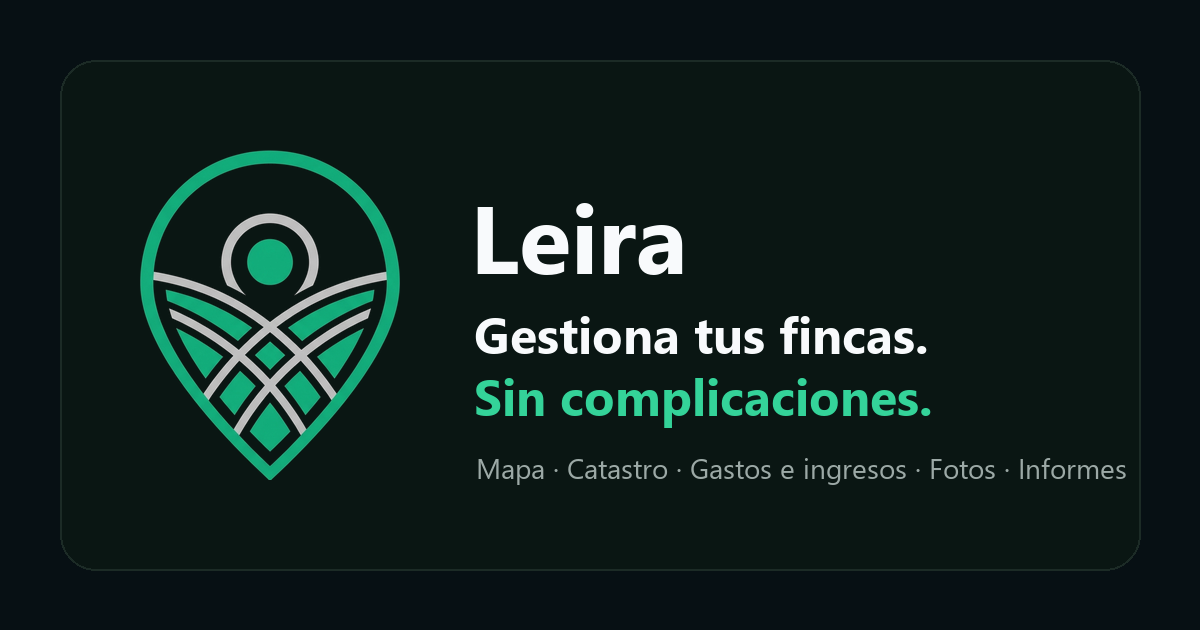
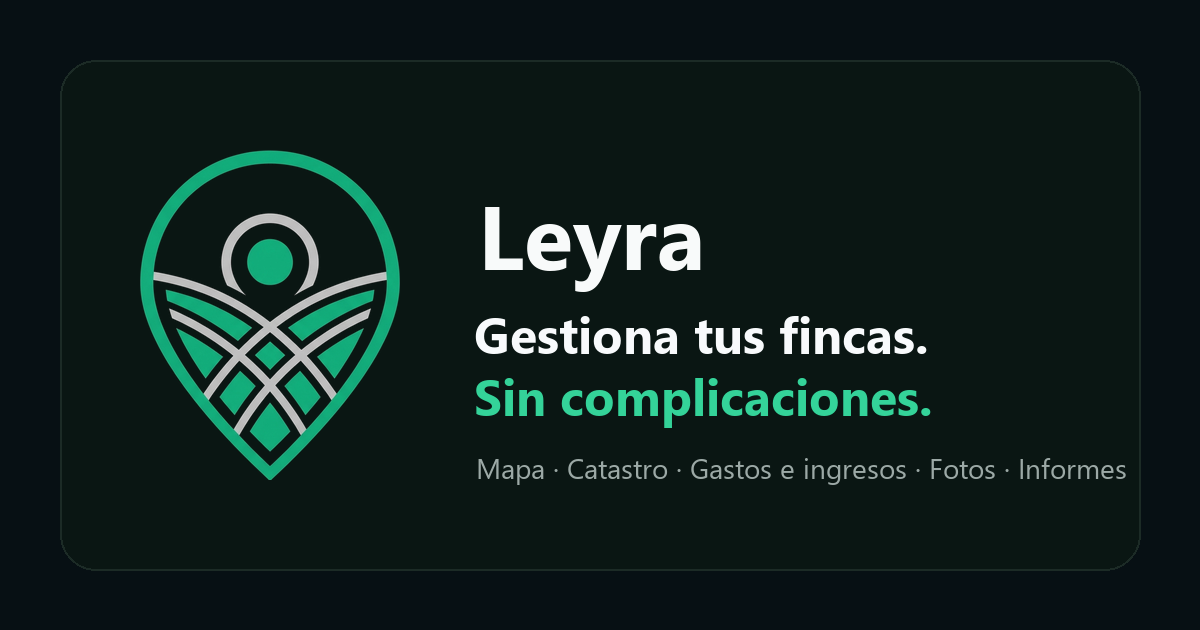
Rebranding: Leira pasa a llamarse Leyra

Changed region(s): [[0.37, 0.3016, 0.5858, 0.4825]]

diff --git a/index.html b/index.html
@@ -3,7 +3,7 @@
 <head>
   <meta charset="utf-8">
   <meta name="viewport" content="width=device-width, initial-scale=1, viewport-fit=cover">
-  <title>Leira — Gestiona tus fincas y propiedades</title>
+  <title>Leyra — Gestiona tus fincas y propiedades</title>
   <meta name="description" content="Gestiona tus fincas y propiedades, consulta el Catastro, controla gastos y organiza toda tu información desde una sola aplicación.">
   <meta name="theme-color" content="#071014">
   <meta name="color-scheme" content="dark">
@@ -14,13 +14,13 @@
   <meta property="og:url" content="https://asvdesarrolloweb-cmd.github.io/leira-web/">
   <meta property="og:type" content="website">
   <meta property="og:locale" content="es_ES">
-  <meta property="og:site_name" content="Leira">
-  <meta property="og:title" content="Leira — Gestiona tus fincas y propiedades">
+  <meta property="og:site_name" content="Leyra">
+  <meta property="og:title" content="Leyra — Gestiona tus fincas y propiedades">
   <meta property="og:description" content="Tus fincas. Todo bajo control. Catastro, ubicación, gastos, fotos y documentación en una sola aplicación.">
   <meta property="og:image" content="https://asvdesarrolloweb-cmd.github.io/leira-web/assets/og-image.png">
   <meta property="og:image:width" content="1200">
   <meta property="og:image:height" content="630">
-  <meta property="og:image:alt" content="Logo de Leira con el lema «Gestiona tus fincas. Sin complicaciones.»">
+  <meta property="og:image:alt" content="Logo de Leyra con el lema «Gestiona tus fincas. Sin complicaciones.»">
   <meta name="twitter:card" content="summary_large_image">
 
   <link rel="icon" type="image/png" sizes="32x32" href="assets/favicon-32.png">
@@ -41,9 +41,9 @@
   <!-- ====================================================== NAVEGACIÓN -->
   <header class="nav" data-nav>
     <div class="nav-inner wrap">
-      <a class="brand" href="#top" aria-label="Leira, inicio">
+      <a class="brand" href="#top" aria-label="Leyra, inicio">
         <img src="assets/logo.png" srcset="assets/logo@2x.png 2x" width="25" height="32" alt="">
-        <span>Leira</span>
+        <span>Leyra</span>
       </a>
       <nav class="nav-links" id="nav-links" aria-label="Principal">
         <a href="#funcionalidades">Funcionalidades</a>
@@ -67,7 +67,7 @@
     <section class="hero" id="top">
       <div class="wrap hero-grid">
         <div class="hero-copy reveal">
-          <p class="eyebrow"><img src="assets/logo.png" width="14" height="18" alt=""> Leira para Android</p>
+          <p class="eyebrow"><img src="assets/logo.png" width="14" height="18" alt=""> Leyra para Android</p>
           <h1>Tus fincas.<br><span class="accent">Todo bajo control.</span></h1>
           <p class="lead">Catastro, mapa, gastos, fotos y documentos. Todo en una sola aplicación.</p>
           <div class="cta-row">
@@ -76,7 +76,7 @@
               <span data-play-label>Próximamente en Google Play</span>
             </a>
             <a class="btn btn-ghost btn-lg" href="#funcionalidades">
-              Descubrir Leira <span class="ms" aria-hidden="true">arrow_downward</span>
+              Descubrir Leyra <span class="ms" aria-hidden="true">arrow_downward</span>
             </a>
           </div>
           <ul class="hero-points" aria-label="Para quién">
@@ -86,7 +86,7 @@
           </ul>
         </div>
 
-        <div class="hero-visual reveal" role="img" aria-label="Pantalla Mapa de Leira: fincas guardadas en verde, parcelas del Catastro en naranja y la tarjeta de una parcela con el botón Añadir a mis fincas">
+        <div class="hero-visual reveal" role="img" aria-label="Pantalla Mapa de Leyra: fincas guardadas en verde, parcelas del Catastro en naranja y la tarjeta de una parcela con el botón Añadir a mis fincas">
           <div class="phone tilt">
             <div class="screen">
               <div class="app-bar"><span>Mapa</span><span class="app-avatar"><span class="ms" aria-hidden="true">grass</span></span></div>
@@ -113,13 +113,13 @@
     <section class="section section-tight" id="funcionalidades">
       <div class="wrap">
         <header class="section-head reveal">
-          <h2 class="claim">Una app de Catastro te enseña una parcela.<br><span class="accent">Leira te ayuda a gestionarla.</span></h2>
+          <h2 class="claim">Una app de Catastro te enseña una parcela.<br><span class="accent">Leyra te ayuda a gestionarla.</span></h2>
         </header>
         <ol class="flow reveal" aria-label="Cómo funciona">
           <li><span class="flow-ic ms" aria-hidden="true">travel_explore</span><span>Encuentra una parcela</span></li>
           <li><span class="flow-ic ms" aria-hidden="true">touch_app</span><span>Selecciónala</span></li>
           <li><span class="flow-ic ms" aria-hidden="true">add_location_alt</span><span>Añádela a tus fincas</span></li>
-          <li><span class="flow-ic ms" aria-hidden="true">account_balance_wallet</span><span>Gestiónala desde Leira</span></li>
+          <li><span class="flow-ic ms" aria-hidden="true">account_balance_wallet</span><span>Gestiónala desde Leyra</span></li>
         </ol>
         <p class="flow-sub reveal">Catastro + mapa + gastos + fotos + documentos, todo en un solo lugar.</p>
       </div>
@@ -149,12 +149,12 @@
           <h2>Encuentra una parcela.<br>Guárdala en segundos.</h2>
           <ol class="steps" data-steps>
             <li data-step="1"><span class="step-n">1</span><div><strong>Mapa</strong><p>Activa la capa Catastro: las parcelas aparecen en naranja.</p></div></li>
-            <li data-step="2"><span class="step-n">2</span><div><strong>Selecciona la parcela</strong><p>Tócala y Leira te enseña su superficie.</p></div></li>
+            <li data-step="2"><span class="step-n">2</span><div><strong>Selecciona la parcela</strong><p>Tócala y Leyra te enseña su superficie.</p></div></li>
             <li data-step="3"><span class="step-n">3</span><div><strong>«Añadir a mis fincas»</strong><p>Si tiene varios inmuebles, eliges cuál.</p></div></li>
             <li data-step="4"><span class="step-n"><span class="ms">check</span></span><div><strong>Finca guardada</strong><p>Ya aparece en verde, lista para gestionarla.</p></div></li>
           </ol>
           <p class="premium-note"><span class="ms crown" aria-hidden="true">workspace_premium</span>Disponible con Premium</p>
-          <p class="aside">¿Tienes la referencia catastral? Escríbela y Leira trae la dirección, el uso, la superficie y el contorno — gratis.</p>
+          <p class="aside">¿Tienes la referencia catastral? Escríbela y Leyra trae la dirección, el uso, la superficie y el contorno — gratis.</p>
         </div>
         <div class="feature-visual reveal" role="img" aria-label="Animación: sobre el mapa del IGN se activa la capa Catastro, se toca una parcela, se pulsa Añadir a mis fincas y la parcela queda guardada en verde">
           <div class="phone">
@@ -206,7 +206,7 @@
             <li><i class="lg blue"></i>Tu ubicación</li>
           </ul>
         </div>
-        <div class="feature-visual reveal" role="img" aria-label="Mapa de Leira con fincas en verde, capa Catastro en naranja y tu ubicación; se puede alternar entre mapa del IGN y satélite">
+        <div class="feature-visual reveal" role="img" aria-label="Mapa de Leyra con fincas en verde, capa Catastro en naranja y tu ubicación; se puede alternar entre mapa del IGN y satélite">
           <div class="map-card">
             <div class="map" data-map data-layer="sat" data-cad="on" data-layer-target>
               <div class="m-pill m-layers"><span data-pill="ign">Mapa</span><span class="on" data-pill="sat">Satélite</span></div>
@@ -386,9 +386,9 @@
     <section class="section premium" id="premium">
       <div class="wrap">
         <header class="section-head reveal">
-          <p class="badge-pro"><span class="ms" aria-hidden="true">workspace_premium</span>LEIRA PRO</p>
-          <h2>Descubre todo el potencial de Leira</h2>
-          <p class="lead">Leira es gratis para gestionar tus fincas. Premium suma lo que más tiempo te ahorra.</p>
+          <p class="badge-pro"><span class="ms" aria-hidden="true">workspace_premium</span>LEYRA PRO</p>
+          <h2>Descubre todo el potencial de Leyra</h2>
+          <p class="lead">Leyra es gratis para gestionar tus fincas. Premium suma lo que más tiempo te ahorra.</p>
         </header>
         <div class="pro-hero reveal">
           <div class="pro-hero-ic"><span class="ms" aria-hidden="true">map</span></div>
@@ -418,7 +418,7 @@
         </header>
         <div class="faq reveal">
           <details>
-            <summary>¿Qué es Leira?<span class="ms" aria-hidden="true">expand_more</span></summary>
+            <summary>¿Qué es Leyra?<span class="ms" aria-hidden="true">expand_more</span></summary>
             <p>Una app para gestionar tus fincas y propiedades a partir de su referencia catastral: las ves en el mapa, consultas sus datos del Catastro, apuntas gastos e ingresos, guardas fotos y puntos de interés y generas informes en PDF.</p>
           </details>
           <details>
@@ -431,7 +431,7 @@
           </details>
           <details>
             <summary>¿Puedo consultar el Catastro?<span class="ms" aria-hidden="true">expand_more</span></summary>
-            <p>Sí. Con la referencia catastral, Leira obtiene de los servicios oficiales de la Dirección General del Catastro la dirección, el municipio, el uso, la superficie y el contorno de la parcela. Con Premium, además, ves las parcelas en el mapa. Navarra y el País Vasco tienen catastros propios y no están incluidos.</p>
+            <p>Sí. Con la referencia catastral, Leyra obtiene de los servicios oficiales de la Dirección General del Catastro la dirección, el municipio, el uso, la superficie y el contorno de la parcela. Con Premium, además, ves las parcelas en el mapa. Navarra y el País Vasco tienen catastros propios y no están incluidos.</p>
           </details>
           <details>
             <summary>¿Puedo guardar parcelas en Mis fincas?<span class="ms" aria-hidden="true">expand_more</span></summary>
@@ -454,8 +454,8 @@
             <p>La capa Catastro en el mapa, el escáner de tickets con IA ilimitado, movimientos y fotos en la nube sin límite, mapas sin conexión y ninguna publicidad. Se gestiona desde Google Play y puedes cancelar cuando quieras.</p>
           </details>
           <details>
-            <summary>¿Dónde puedo descargar Leira?<span class="ms" aria-hidden="true">expand_more</span></summary>
-            <p>Leira llegará a Android a través de Google Play. En esta página tendrás el enlace en cuanto esté publicada.</p>
+            <summary>¿Dónde puedo descargar Leyra?<span class="ms" aria-hidden="true">expand_more</span></summary>
+            <p>Leyra llegará a Android a través de Google Play. En esta página tendrás el enlace en cuanto esté publicada.</p>
           </details>
         </div>
       </div>
@@ -470,7 +470,7 @@
           <p class="lead">Catastro, mapa, gastos, fotos y documentos. Todo en un solo lugar.</p>
           <a class="btn btn-primary btn-lg" data-play data-play-badge href="#descargar">
             <span class="ms" aria-hidden="true">download</span>
-            <span data-play-label data-ready-label="Descargar Leira en Google Play">Próximamente en Google Play</span>
+            <span data-play-label data-ready-label="Descargar Leyra en Google Play">Próximamente en Google Play</span>
           </a>
         </div>
       </div>
@@ -481,12 +481,12 @@
   <footer class="footer">
     <div class="wrap footer-grid">
       <div class="footer-brand">
-        <a class="brand" href="#top"><img src="assets/logo.png" srcset="assets/logo@2x.png 2x" width="25" height="32" alt="" loading="lazy"><span>Leira</span></a>
+        <a class="brand" href="#top"><img src="assets/logo.png" srcset="assets/logo@2x.png 2x" width="25" height="32" alt="" loading="lazy"><span>Leyra</span></a>
         <p>Tus fincas y propiedades, bajo control: mapa, Catastro, gastos, fotos e informes en una sola app.</p>
         <a class="footer-play" data-play-text href="#descargar"><span class="ms" aria-hidden="true">download</span><span data-play-label>Próximamente en Google Play</span></a>
       </div>
       <nav aria-label="Secciones">
-        <p class="footer-h">Leira</p>
+        <p class="footer-h">Leyra</p>
         <a href="#funcionalidades">Funcionalidades</a>
         <a href="#catastro">Catastro</a>
         <a href="#premium">Premium</a>
@@ -501,7 +501,7 @@
       </nav>
     </div>
     <div class="wrap footer-bottom">
-      <p>© <span data-year>2026</span> Leira. Datos catastrales: Dirección General del Catastro. Cartografía: © IGN España.</p>
+      <p>© <span data-year>2026</span> Leyra. Datos catastrales: Dirección General del Catastro. Cartografía: © IGN España.</p>
     </div>
   </footer>
 

diff --git a/main.js b/main.js
@@ -1,7 +1,7 @@
-/* Leira — web oficial. Sin dependencias. */
+/* Leyra — web oficial. Sin dependencias. */
 
 /**
- * Enlace de Leira en Google Play — el ÚNICO sitio donde va. Vacío hasta que la app esté publicada:
+ * Enlace de Leyra en Google Play — el ÚNICO sitio donde va. Vacío hasta que la app esté publicada:
  * mientras tanto, todos los botones de descarga dicen «Próximamente en Google Play». En cuanto se
  * pegue aquí la URL real (p. ej. https://play.google.com/store/apps/details?id=com.leiraapp.mobile),
  * todos pasan solos a «Descargar en Google Play», abren la tienda y el botón final muestra el

diff --git a/styles.css b/styles.css
@@ -1,4 +1,4 @@
-/* Leira — web oficial.
+/* Leyra — web oficial.
  * Misma identidad que la app: paleta del Paywall (`src/components/PaywallModal.tsx → PALETTE`),
  * verde esmeralda del tema oscuro (`src/constants/theme.ts`), dorado Premium de la corona del
  * interruptor Catastro y los colores reales del mapa (`src/components/leaflet-html.ts`).

diff --git a/README.md b/README.md
@@ -1,4 +1,4 @@
-# Leira — web oficial (landing)
+# Leyra — web oficial (landing)
 
 Página estática, sin dependencias ni paso de build: `index.html` + `styles.css` + `main.js` +
 `assets/`. Se puede servir tal cual desde cualquier hosting estático (GitHub Pages, Netlify,
